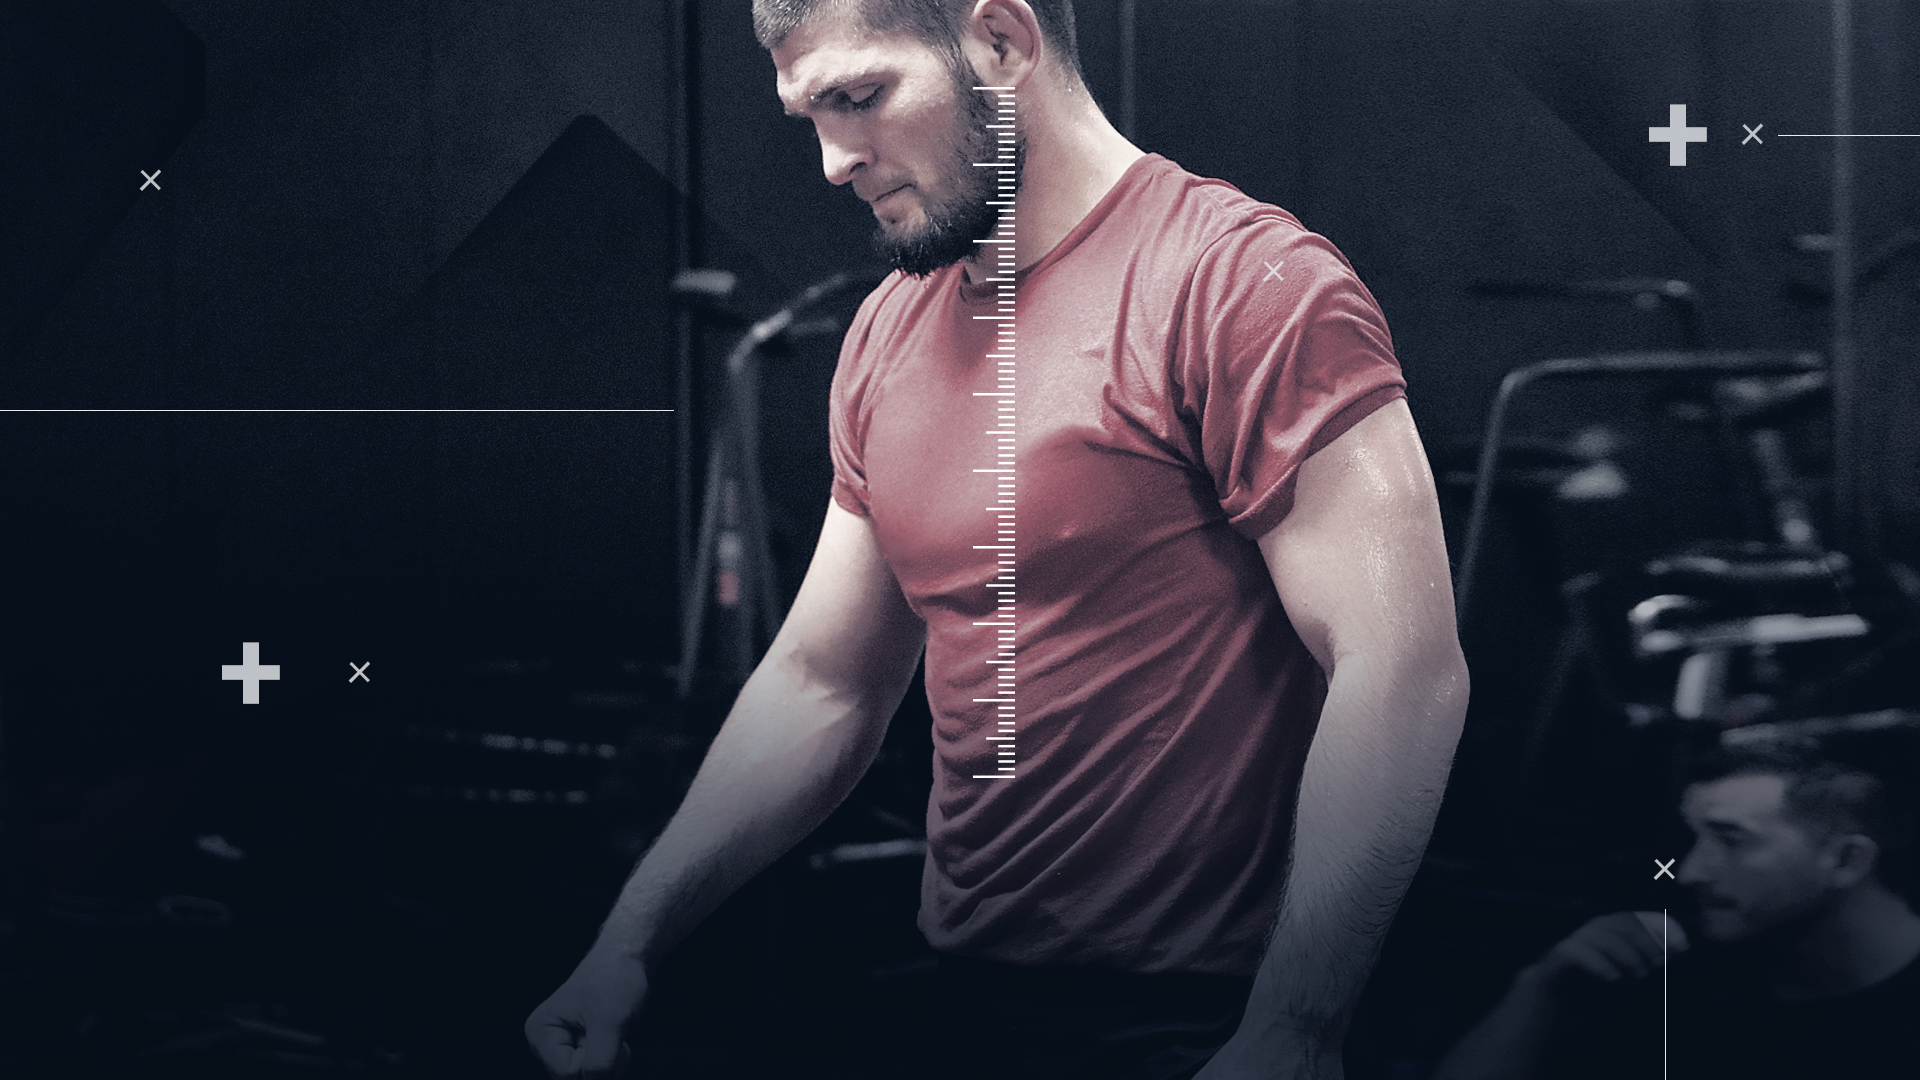
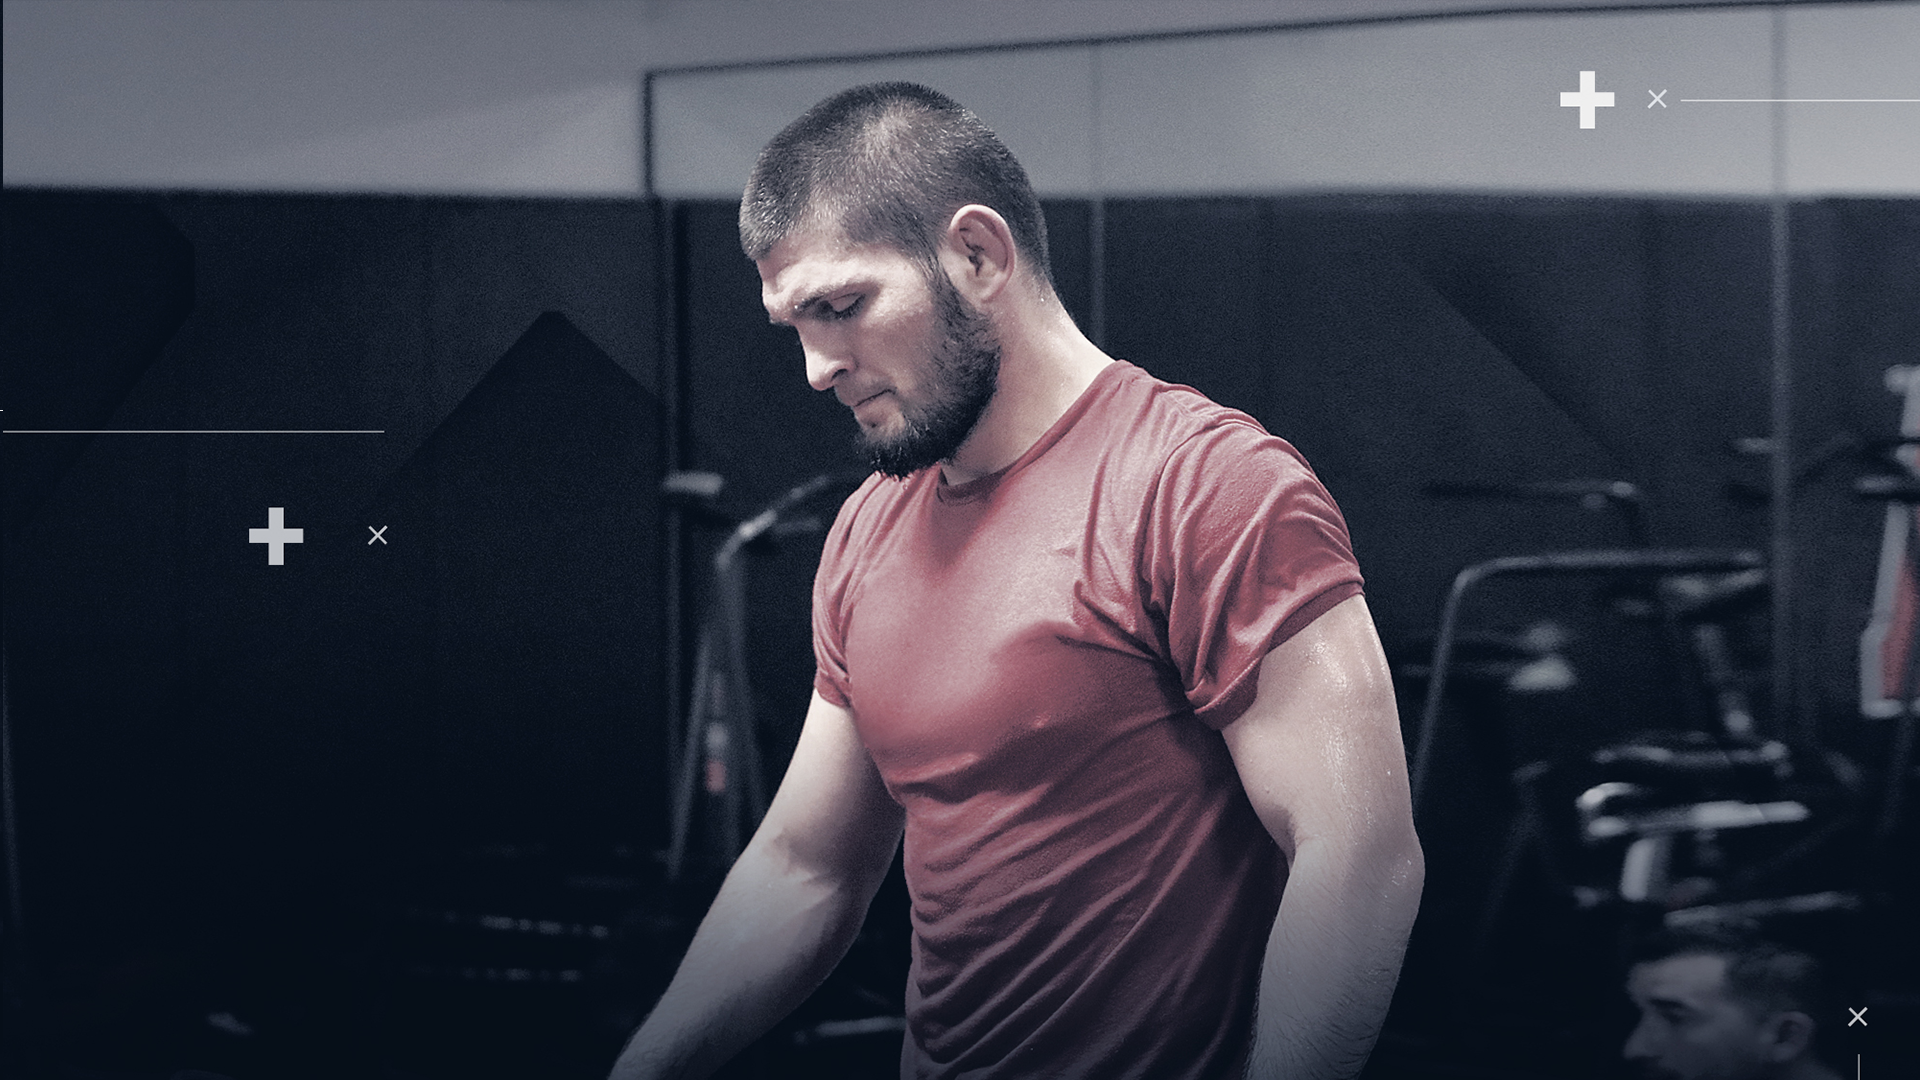
Updates khabib image with one that works on parallax. Adjusts font so that it looks bigger on khabib image.

diff --git a/assets/css/style.css b/assets/css/style.css
@@ -926,26 +926,33 @@ padding-left: 13%;
 padding-right: 13%;
 }
 .vision h1 { 
-  font-size: 5em;
+  font-size: 8vw;
 }
 
 @media (max-width: 1024px) {
   .vision h1 { 
-    font-size: 3.2em;
+    font-size: 9vw;
 
   }
 }
+/*
+@media (max-width: 768px) {
+  .vision h1 { 
+    font-size: 9vw;
 
+  }
+}
+*/
 .vision .title-01 { 
   position: absolute;
   padding: 0;
-  left: 10%;
-  top: 20%;
+  left: 2%;
+  top: 30%;
 }
 .vision .title-02 { 
   position: absolute;
   left: 60%;
-  top: 40%;
+  top: 55%;
   padding: 0;
 }
 .vision::before {
@@ -1025,6 +1032,9 @@ text-align: center;
 @media (min-width: 1024px) {
   .vision {
     background-attachment: fixed;
+   /* background: url("../img/MMAGlobal_R2_Khabib_1200.jpg") top right;
+    background-repeat: no-repeat; */
+
   }
 }
 
